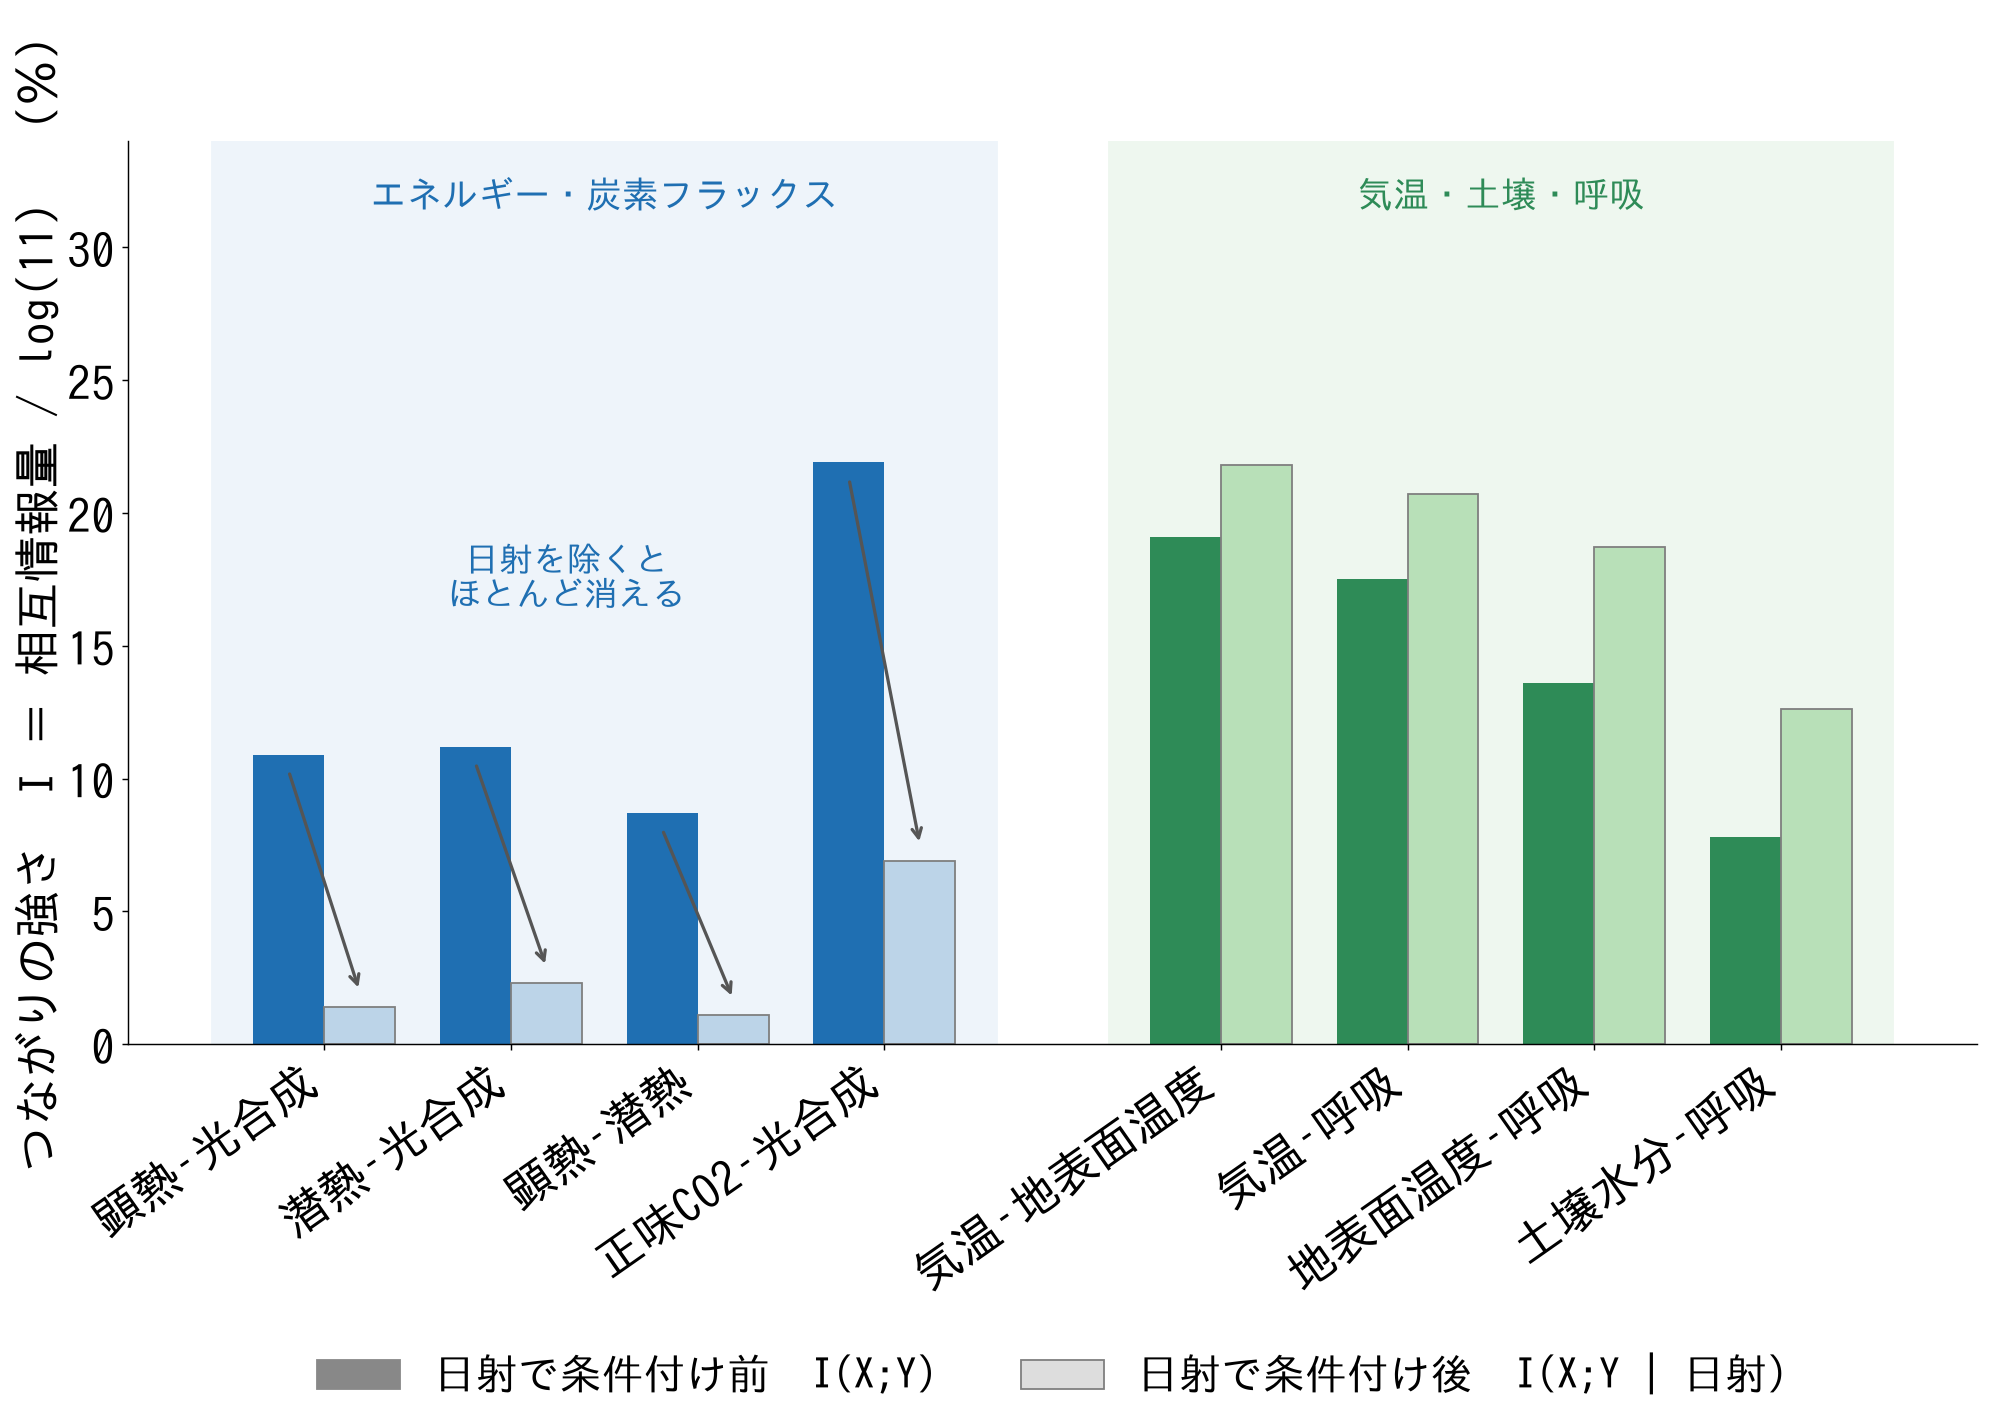
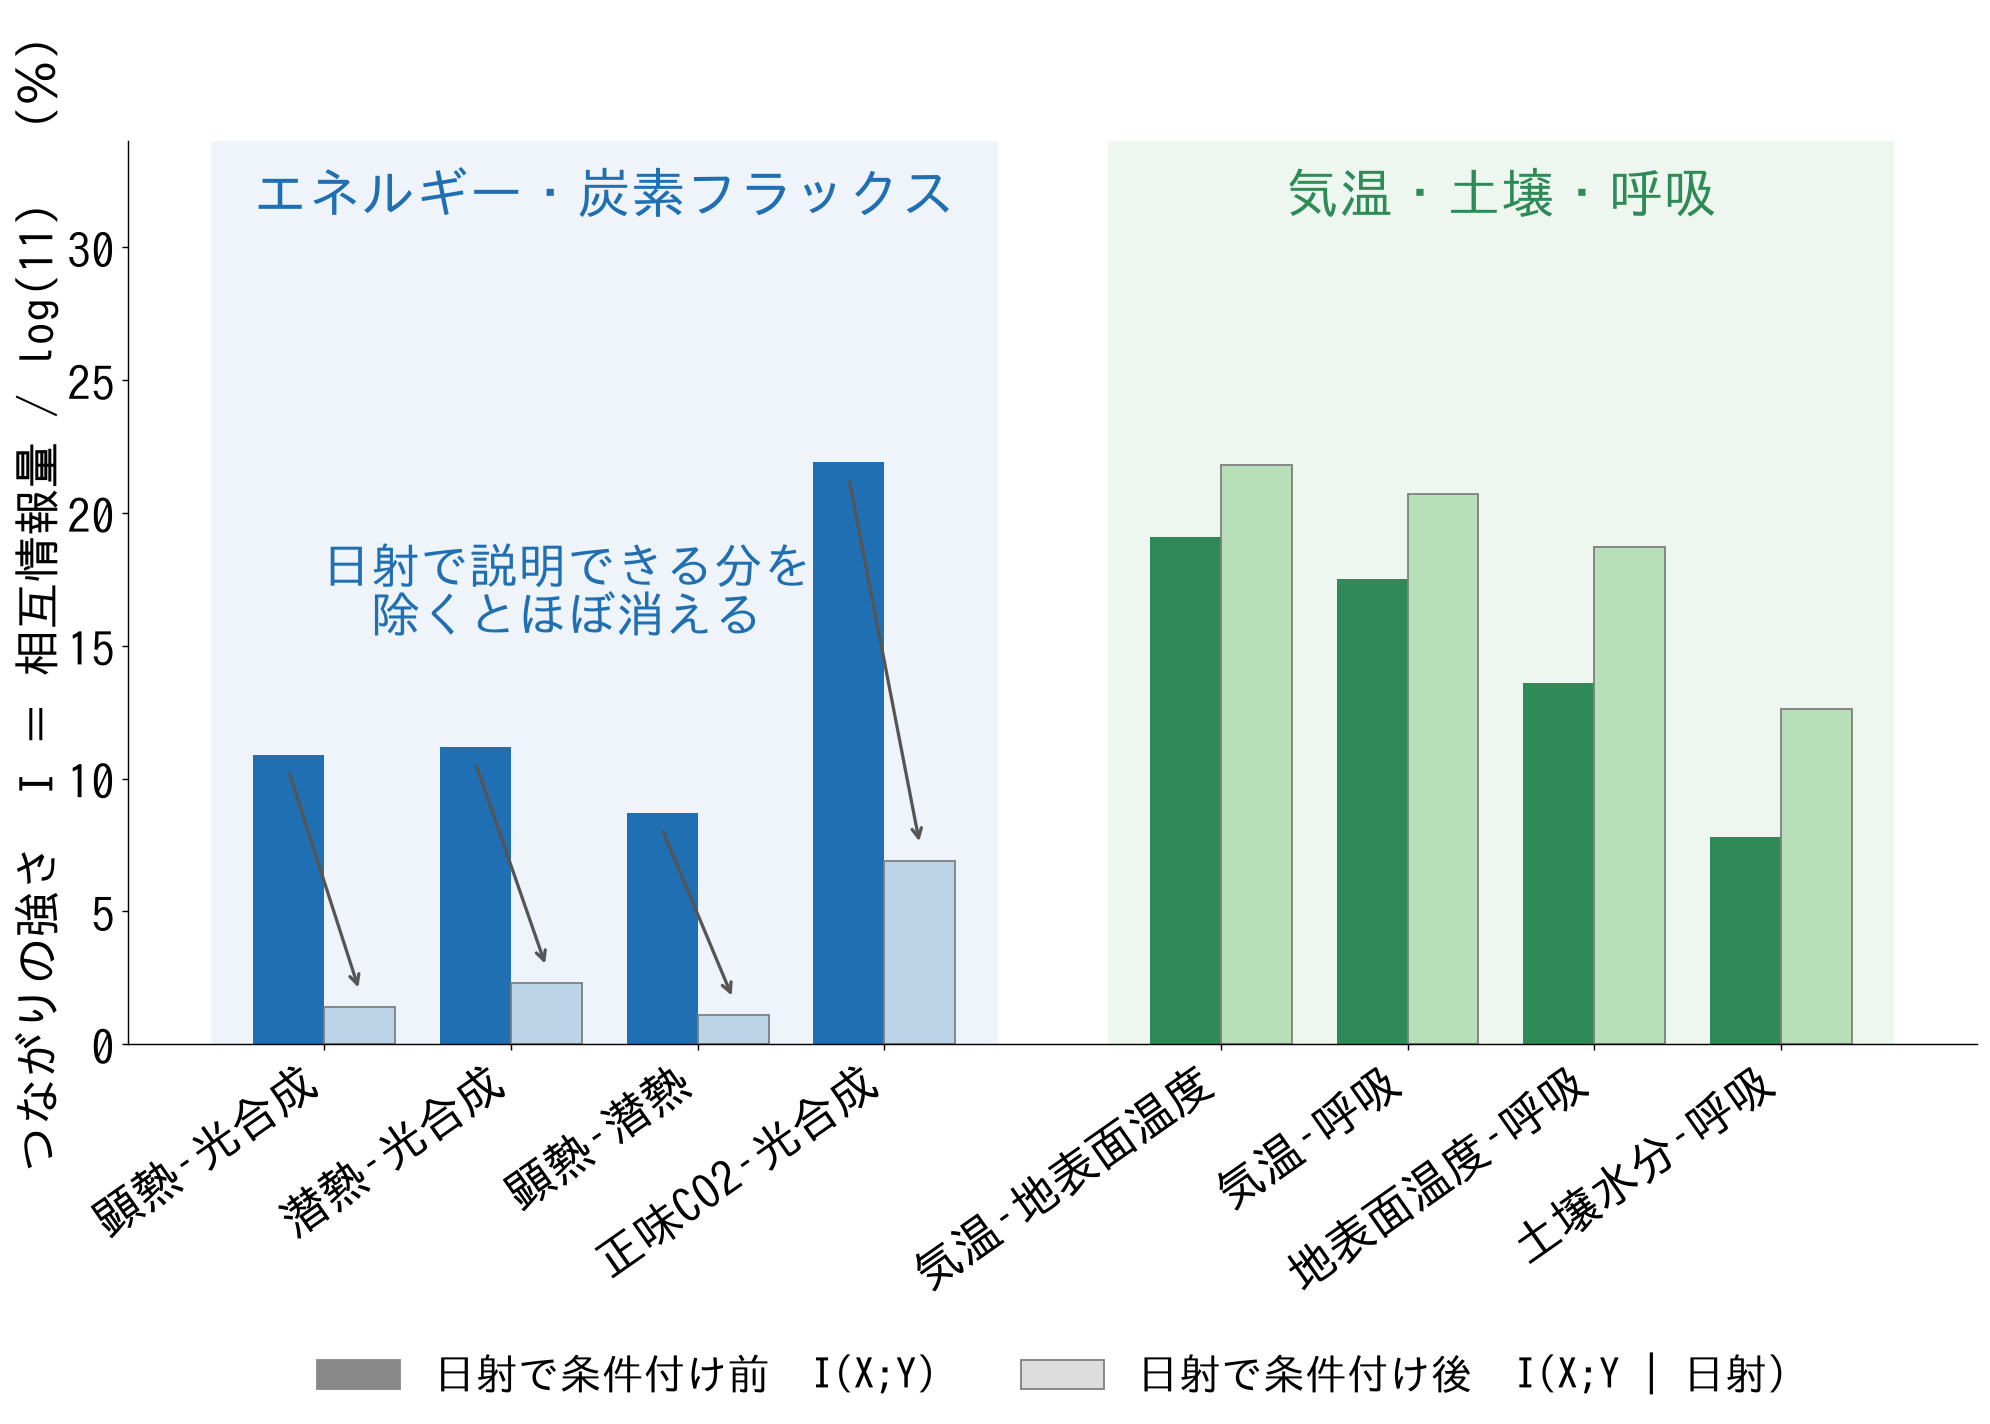
fig2bの文言を「日射で説明できる分を除く」に厳密化・図内文字を1.5倍拡大、fig4は閾値注記を撤去し誤検出（内部対照）で判定、全図から「本物の因果」を削除

Changed region(s): [[0.1558, 0.3708, 0.405, 0.4635], [0.1246, 0.1236, 0.4673, 0.1545], [0.6543, 0.1236, 0.8724, 0.1545]]

diff --git a/scripts/make_slides_figs.py b/scripts/make_slides_figs.py
@@ -34,7 +34,7 @@ BLUE, RED, GREEN, ORANGE, GREY = "#1f6fb2", "#c0392b", "#2e8b57", "#e08a1e", "#8
 C_RADIATION = "#f0b73e"   # 放射（共通原因そのもの）
 C_APPARENT  = BLUE        # 見かけのつながり（共通原因の影／条件付けで崩れる）
 C_APP_LIGHT = "#bcd4e8"   # 同・条件付け後（薄色）
-C_REAL      = GREEN       # 本物・直接・頑健な因果
+C_REAL      = GREEN       # 直接・頑健に残る因果
 C_REAL_LIGHT = "#b8e0b8"  # 同・薄色
 C_ARTIFACT  = RED         # 物理的にありえない（アーティファクト）
 
@@ -115,7 +115,7 @@ def fig_skeleton():
               "GEP":"光合成\nGEP", "NEE":"正味CO2\nNEE"}
     G = nx.DiGraph(); G.add_nodes_from(pos); G.add_edges_from(edges)
     fig, ax = plt.subplots(figsize=(8.0, 5.8))
-    # 統一配色（青＋緑のみ）：日射＝共通原因(濃い青)、光合成・正味CO2＝本物の炭素(緑)、その他気象＝薄青
+    # 統一配色（青＋緑のみ）：日射＝共通原因(濃い青)、光合成・正味CO2＝直接残る炭素(緑)、その他気象＝薄青
     ncol = ["#5b9bd5" if n=="Rg" else (C_REAL_LIGHT if n in ("GEP","NEE")
             else C_APP_LIGHT) for n in G.nodes]
     nx.draw_networkx_nodes(G, pos, node_size=2800, node_color=ncol,
@@ -144,27 +144,21 @@ def fig_robustness():
     art = [("gH->Rg",57),("gLE->Rg",38),("GEP->Rg",14),("NEE->Rg",14)]
     labels = [jp(l) for l,_ in core] + [jp(l) for l,_ in art]
     vals = [v for _,v in core] + [v for _,v in art]
-    # 統一配色（青＋緑のみ）：緑＝本物の因果、青＝物理的にありえない（→日射）
+    # 統一配色（青＋緑のみ）：緑＝毎年安定して残るリンク、青＝物理的にありえない（→日射）
     cols = [C_REAL]*len(core) + [C_APPARENT]*len(art)
     y = np.arange(len(labels))[::-1]
     n = len(labels)
-    fig, ax = plt.subplots(figsize=(8.6, 6.0))
+    fig, ax = plt.subplots(figsize=(8.6, 5.8))
     ax.barh(y, vals, color=cols)
     ax.set_yticks(y); ax.set_yticklabels(labels)
-    # 「70%を選んだ」ではなく、データに自然な段差（57%↔71%）があることを示す
-    ax.axvspan(57, 71, color="#eeeeee", zorder=0)
-    ax.axvline(57, color="#bbb", ls="--", lw=1, zorder=1)
-    ax.axvline(71, color="#bbb", ls="--", lw=1, zorder=1)
-    ax.text(64, n-0.3, "自然な段差\n（この谷ならどこで\n区切っても結論は不変）",
-            color="#555", fontsize=9, ha="center", va="bottom")
     ax.set_xlabel("そのリンクが出現した年の割合（％）  ― JP-Tak・21年")
-    ax.set_title("本物の因果は年をまたいで安定して現れる。\n"
-                 "→日射のリンクは頻度によらず物理的にありえない＝内部対照",
+    ax.set_title("同じ因果リンクは年をまたいで安定して現れる。\n"
+                 "→日射のリンクは頻度によらず物理的にありえない（＝誤検出）",
                  fontsize=13.5)
-    ax.set_xlim(0, 105); ax.set_ylim(-0.7, n+0.9)
+    ax.set_xlim(0, 105); ax.set_ylim(-0.7, n-0.3)
     from matplotlib.patches import Patch
-    ax.legend(handles=[Patch(color=C_REAL, label="本物の因果（コア）"),
-                       Patch(color=C_APPARENT, label="→日射（物理的にありえない）＝アーティファクト")],
+    ax.legend(handles=[Patch(color=C_REAL, label="毎年安定して残るリンク（コア）"),
+                       Patch(color=C_APPARENT, label="→日射（物理的にありえない）＝誤検出")],
               loc="lower right", fontsize=11, frameon=False)
     fig.savefig(OUT/"fig4_robustness.png", bbox_inches="tight"); plt.close(fig)
 
@@ -211,7 +205,7 @@ def fig_conditioning():
     w = 0.38
     FS = 26  # 目盛り・軸見出しの基準サイズ（従来比およそ2倍）
     fig, ax = plt.subplots(figsize=(15.5, 10.5))
-    # 統一配色：左＝見かけ(青)、右＝本物(緑)。濃色＝条件付け前、薄色＝日射で条件付け後。
+    # 統一配色：左＝見かけ(青)、右＝直接残る(緑)。濃色＝条件付け前、薄色＝日射で条件付け後。
     cols_before = [C_APPARENT]*4 + [C_REAL]*4
     cols_after  = [C_APP_LIGHT]*4 + [C_REAL_LIGHT]*4
     ax.bar(x-w/2, before, w, color=cols_before)
@@ -229,15 +223,15 @@ def fig_conditioning():
                              label="日射で条件付け後  I(X;Y | 日射)")],
               loc="upper center", bbox_to_anchor=(0.5, -0.30), ncol=2,
               fontsize=FS-3, frameon=False)
-    ax.text(1.5, 31.5, "エネルギー・炭素フラックス", ha="center",
-            fontsize=FS-6, color=C_APPARENT, fontweight="bold")
-    ax.text(6.3, 31.5, "気温・土壌・呼吸", ha="center",
-            fontsize=FS-6, color=C_REAL, fontweight="bold")
+    ax.text(1.5, 31.3, "エネルギー・炭素フラックス", ha="center",
+            fontsize=30, color=C_APPARENT, fontweight="bold")
+    ax.text(6.3, 31.3, "気温・土壌・呼吸", ha="center",
+            fontsize=30, color=C_REAL, fontweight="bold")
     for xi, b, a in zip(x[:4], before[:4], after[:4]):
         ax.annotate("", xy=(xi+w/2, a+0.6), xytext=(xi-w/2, b-0.6),
                     arrowprops=dict(arrowstyle="->", color="#555", lw=1.8))
-    ax.text(1.3, 16.5, "日射を除くと\nほとんど消える", color=C_APPARENT, ha="center",
-            fontsize=FS-7, fontweight="bold")
+    ax.text(1.3, 15.5, "日射で説明できる分を\n除くとほぼ消える", color=C_APPARENT,
+            ha="center", fontsize=27, fontweight="bold")
     fig.savefig(OUT/"fig2b_conditioning.png", bbox_inches="tight"); plt.close(fig)
 
 

diff --git a/japanflux_pn/RESULTS_TRILOGY.md b/japanflux_pn/RESULTS_TRILOGY.md
@@ -13,13 +13,16 @@ run_robustness.py）から確認済み。
 - **縦軸の % は何の割合か**：相互情報量 I を**正規化定数 log(m)（m＝ビン数＝11）で割った値**×100。
   つまり I′ = I / log(m)（Ruddell & Kumar 2009 の規格化）。**「2変数が共有する情報を、取りうる最大
   （log m）に対する割合で表したもの」**。分散の割合ではなく、情報量の割合。
-  - 青＝条件付け**前** I(X;Y)、薄青＝**放射 Rg で条件付けた後** I(X;Y|Rg)。
-- **なぜ "Energy/carbon fluxes" と "Temperature–respiration" に分けたか**：**結果でそう分かれたから**。
-  - 左（エネルギー・炭素フラックスどうしの結合：γH–GEP, γLE–GEP, γH–γLE, NEE–GEP）＝**Rg を差し引くと
-    崩れる**→これらの見かけのつながりは**放射という共通原因の影**だった。
+  - 濃色＝条件付け**前** I(X;Y)、薄色＝**放射 Rg で条件付けた後** I(X;Y|Rg)。
+- **「Rg を除く」の厳密な意味**：Rg そのものを消すのではない。I(X;Y|Rg) は「**Rg を知った上で、なお
+  X と Y が共有する情報**」＝**2変数のつながりのうち "Rg で説明がつく分（共通原因の寄与）" を差し引いた残り**。
+  だから図の文言も「日射を除く」ではなく「**日射で説明できる分を除く**」が正しい。
+- **なぜ "エネルギー・炭素フラックス" と "気温・土壌・呼吸" に分けたか**：**結果でそう分かれたから**。
+  - 左（エネルギー・炭素フラックスどうしの結合：γH–GEP, γLE–GEP, γH–γLE, NEE–GEP）＝**Rg で説明できる分を
+    引くとほぼ消える**→これらの見かけのつながりは**放射という共通原因の影**だった。
   - 右（温度・土壌・呼吸の結合：Ta–Ts, Ta–GER, Ts–GER, θ–GER）＝**Rg を差し引いても残る／むしろ増える**
     →放射に依らない**直接の結合**。
-  - 対比（見かけ vs 本物）を見せるためのグループ分け。
+  - 見かけ vs 直接、の対比を見せるためのグループ分け。
 
 ### fig3_causal_skeleton（PCMCIで本当の因果の矢印）
 - **PCMCI とは**：時系列の**多変量因果探索**。2段階。①各変数について「その未来を説明する候補（親）」を
@@ -37,16 +40,26 @@ run_robustness.py）から確認済み。
     Rg との関係は分割法に一部組み込まれている（解釈に注意）。
   - だから「GEP は放射に無関係」ではない——**ペアワイズの I(Rg;GEP) は強い**（気候応答 fig1 の主指標）。
     頑健に残る炭素リンクは **GEP→NEE（光合成→正味 CO₂ 交換）**。
-- **本質（これだけ言えば良い）**：**共通原因（放射）と間接経路を差し引くと、本物の直接因果はごく少数に
-  絞られる（＝疎な骨格）。残るのは「放射→エネルギー・気象・地温」と「光合成→正味炭素」という骨組み。**
+- **fig3 に描いた矢印は何か**：**単年の PCMCI が出す全エッジではなく**、年をまたいで安定して残った
+  リンクだけを集めた**合意（コンセンサス）グラフ**。単年では偽の矢印も混じるので、fig4 の頻度基準を
+  満たすものだけを描いている。
+- **本質（これだけ言えば良い）**：**共通原因（放射）と間接経路を差し引くと、直接因果はごく少数に
+  絞られる（＝疎な骨組み）。残るのは「放射→エネルギー・気象・地表面温度」と「光合成→正味炭素」という骨組み。**
 
 ### fig4_robustness（年をまたいだ安定性）
 - **縦軸**：そのリンクが **21年のうち何 % の年で出現したか**（＝頻度 = 出現年数 / 有効年数）。
-- **"Physical core link" の閾値はどう決めたか**：**頻度 ≥ 70 %** かつ **矢印の先が Rg でない**もの。
-  - 70 % は「**年をまたいで安定**」の慣用的カットオフ（恣意性はあるが、本物の因果は連続的に出続け、
-    偶然の偽陽性は散発、という前提に基づく）。
-  - 赤（アーティファクト）＝**矢印が Rg に入るもの（→Rg）**。放射は**外生**（生態系の中の何ものも入射
-    日射を作らない）ので**物理的に不可能**→**頻度によらず偽陽性の目印**。つまり赤は"閾値"でなく"物理"で判定。
+- **緑（コア）と青（誤検出）の分け方 — 閾値を自分で決めない**：
+  - 青（→Rg）は**すべて物理的にありえない**（Rg は外生。生態系の中の何ものも入射日射を作らない）。
+    だから青の出現頻度は「**偽物が偶然どれくらい出るか**」の実測サンプル（＝**内部対照・帰無分布**）になる。
+  - 規則：**「頻度が "ありえないリンクの最大値" を超えたものだけを残す」**。この最大値が判定ラインで、
+    **私ではなくデータ（対照）が決める**。今回は最大が 顕熱→Rg＝57 % なので、基準は自動的に「**57 % 超**」。
+    コア候補（71〜100 %）は全部それを超える。※恣意的な「70 %」ではない。
+  - **「もし偽物の頻度がコア候補のどれより高かったら？」**——その場合こそこの方法が効く：**閾値が上がって、
+    その偽物より下は全部 "ノイズと区別できない" として不採用**。「どこで切るか分からない」ではなく
+    「**何も頑健とは言えない**」が正しい結論になる（手で決めないから、そうなる）。
+  - 補助的な前例：この「繰り返しの中で高頻度に残るものを採る」考え方は統計の **stability selection**
+    （Meinshausen & Bühlmann 2010）と同型（閾値 0.6〜0.9 が慣例）。※引用前に原文で数値を確認すること。
+  - 用語注：**"誤検出（見せかけ）"＝手法や処理のせいで出た、本物でないリンク**（英語の artifact）。
 
 ---
 
@@ -57,8 +70,8 @@ run_robustness.py）から確認済み。
 - 期間＝**1999–2021 の健全な21夏**、**30分値**、対象月＝**7–8月**（生育最盛期）。
 
 **変数（R&K の11変数）**
-- Rg 下向き短波放射／Ta 気温／VPD 飽差／Ts 地温／P 降水／θ 表層土壌水分／γH 顕熱／γLE 潜熱（蒸発）／
-  GER 生態系呼吸／NEE 正味CO₂交換／GEP 総一次生産（光合成）。
+- Rg 下向き短波放射（日射）／Ta 気温／VPD 飽差／Ts 地表面温度／P 降水／θ 表層土壌水分／γH 顕熱／
+  γLE 潜熱（蒸発）／GER 生態系呼吸／NEE 正味CO₂交換／GEP 総一次生産（光合成）。
 - ※ GER・GEP は NEE から分割した**派生量**（実測は NEE）。
 
 **前処理**
@@ -70,8 +83,8 @@ run_robustness.py）から確認済み。
   有意性は**シャッフル・サロゲート**（片側 α=0.01）。
 - fig3：**PCMCI+**（tigramite）。tau_max=6（＝3時間）、pc_alpha=0.01、線形 ParCorr。
   graph の `-->` を有向因果とみなす。
-- fig4：**各年で PCMCI+ を回し**、(src→dst) の**出現頻度**を集計。**頻度≥70% かつ 非→Rg** をコア、
-  **→Rg** をアーティファクトとする。
+- fig4：**各年で PCMCI+ を回し**、(src→dst) の**出現頻度**を集計。**→Rg（物理的にありえない）を内部対照**とし、
+  その**最大頻度を超える**リンクをコア（毎年安定して残る）、**→Rg** を誤検出（見せかけ）とする＝閾値は対照が決める。
 
 **正直な注記（スライドの隅に一言）**
 - GEP/GER は派生量（NEE 分割）。fig4 は**単一サイトの"時間"方向の頑健性**（複数サイトの空間的普遍性は
